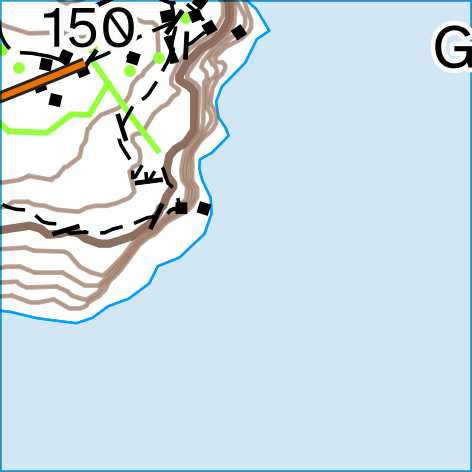
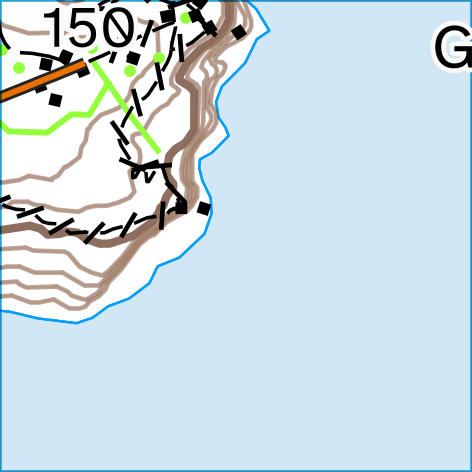
feat: cross out a closed foot track with a slash in each gap
A heavy closed line hid the map under it and read as a railway. The line now matches an open foot track, and a 45° bar sits in every dash gap.

diff --git a/tools/override_topo50_project.py b/tools/override_topo50_project.py
@@ -753,10 +753,24 @@ def _mask_contour_casing(root):
             mask.set("maskedSymbolLayers", current + ";" + token)
 
 
+def _mm(value):
+    text = f"{value:.4f}".rstrip("0").rstrip(".")
+    return text or "0"
+
+
+def closed_bar_placement(track):
+    """Return the interval and the offset that put one bar in each dash gap."""
+    on_text, off_text = track["closed_dash"].split(";")
+    on = float(on_text)
+    off = float(off_text)
+    return _mm(on + off), _mm(on + off / 2)
+
+
 def _closed_crossbar(style=None):
     style = style or STYLE
     track = style["tracks"]["closed_foot"]
     ink = _rgba(track["crossbar_colour"], 255)
+    interval, along = closed_bar_placement(track)
     layer = ET.Element(
         "layer",
         {
@@ -769,10 +783,10 @@ def _closed_crossbar(style=None):
     )
     options = ET.SubElement(layer, "Option", {"type": "Map"})
     for name, value, kind in (
-        ("interval", str(track["crossbar_interval_mm"]), "QString"),
+        ("interval", interval, "QString"),
         ("interval_unit", "MM", "QString"),
         ("offset", "0", "QString"),
-        ("offset_along_line", "0", "QString"),
+        ("offset_along_line", along, "QString"),
         ("offset_along_line_unit", "MM", "QString"),
         ("offset_unit", "MM", "QString"),
         ("place_on_every_part", "true", "bool"),
@@ -858,7 +872,9 @@ def _closed_marker(symbol):
 def _sync_closed_crossbar(marker, style):
     track = style["tracks"]["closed_foot"]
     ink = _rgba(track["crossbar_colour"], 255)
-    _set_option(marker, "interval", str(track["crossbar_interval_mm"]))
+    interval, along = closed_bar_placement(track)
+    _set_option(marker, "interval", interval)
+    _set_option(marker, "offset_along_line", along)
     simple = marker.find("symbol/layer[@class='SimpleMarker']")
     if simple is None:
         raise RuntimeError("closed cross-bar has no marker")

diff --git a/tools/test_tools.py b/tools/test_tools.py
@@ -614,7 +614,7 @@ def test_track_access_channel_is_reserved():
 
 
 def test_closed_tracks_read_the_style_file():
-    # Catches a vector closed-track casing that ignores the JSON, a second apply that leaves the 90° bar, or a raster warm_red left below 3:1 under red light.
+    # Catches a vector closed-track casing that ignores the JSON, a second apply that leaves the 90° bar, a bar left every 4 mm, or a raster warm_red left below 3:1 under red light.
     track = bs.RULES["tracks"]["closed_foot"]
     assert track["casing_colour"] == "#1A1A1A"
     assert track["casing_alpha"] == 0.55
@@ -683,6 +683,10 @@ def test_closed_tracks_read_the_style_file():
     size = track_layer.find(".//layer[@class='SimpleMarker']/Option/Option[@name='size']")
     assert angle.get("value") == str(ov.STYLE["tracks"]["closed_foot"]["crossbar_angle_deg"])
     assert size.get("value") == str(ov.STYLE["tracks"]["closed_foot"]["crossbar_size_mm"])
+    interval = track_layer.find(".//layer[@class='MarkerLine']/Option/Option[@name='interval']")
+    along = track_layer.find(".//layer[@class='MarkerLine']/Option/Option[@name='offset_along_line']")
+    assert interval.get("value") == "1.5"
+    assert along.get("value") == "1.25"
     width = track_layer.find(".//Option[@name='outlineWidth']/Option[@name='expression']").get("value")
     assert "0.15" in width
     assert "0.45" not in width

diff --git a/docs/research-log/0056-angled-closed-track.md b/docs/research-log/0056-angled-closed-track.md
@@ -8,13 +8,13 @@ Can a closed foot track stay as light as an open foot track, and still read as c
 
 ## What we did
 
-Set `tracks.closed_foot.width_mm` to 0.15 and `closed_dash` to `1;0.5`. Those match the open foot track. Set `crossbar_angle_deg` to 60. Set `crossbar_size_mm` to 1, the same length as one dash. A second apply writes that angle and that size onto the marker that is already in the project.
+Set `tracks.closed_foot.width_mm` to 0.15 and `closed_dash` to `1;0.5`. Those match the open foot track. Set `crossbar_angle_deg` to 45. Set `crossbar_size_mm` to 1, the same length as one dash. One bar sits in each gap. The dash is 1 mm and the gap is 0.5 mm, so the bar interval is 1.5 mm and the first bar is 1.25 mm along the line. A second apply writes that angle, that size, and that gap onto the marker that is already in the project.
 
 Drew the closed-track square again at 600 dpi. The other three squares were not drawn.
 
 ## What we found
 
-The closed line is the same weight as the open foot track. The bars sit at 60° to the line. Each bar is 1 mm, the same length as one dash. The brown contours show through the track. The vector sprite is still a perpendicular bar.
+The closed line is the same weight as the open foot track. The bars sit at 45° to the line. That slash crosses out the track. Each bar is 1 mm, the same length as one dash. One bar sits in each gap. The brown contours show through the track. The vector sprite is still a perpendicular bar.
 
 ## What changed
 
@@ -24,4 +24,4 @@ The closed line is the same weight as the open foot track. The bars sit at 60° 
 
 ## Confidence & gaps
 
-The web sprite does not use this angle. If 60° still reads as a sleeper, try another angle in the style file and draw this square again.
+The web sprite does not use this angle. If 45° still reads as a sleeper, try another angle in the style file and draw this square again.

diff --git a/docs/style-topo50.md b/docs/style-topo50.md
@@ -76,7 +76,7 @@ The vector build reads `tracks.closed_foot.casing_colour` and `tracks.closed_foo
 
 `tracks.closed_foot.casing_colour` is `#1A1A1A`. `tracks.closed_foot.casing_alpha` is 0.55.
 
-The QGIS apply step does not paint that casing. A closed foot track uses the same line weight and the same dash as an open foot track. Cross-bars at `tracks.closed_foot.crossbar_angle_deg` mark it closed. That angle is 60. A second apply writes the angle onto the marker that is already in the project.
+The QGIS apply step does not paint that casing. A closed foot track uses the same line weight and the same dash as an open foot track. One cross-bar sits in each gap. The bar angle is `tracks.closed_foot.crossbar_angle_deg`. That angle is 45. A second apply writes the angle and the gap position onto the marker that is already in the project.
 
 `tracks.access.reserved_channel` is `casing_colour`. `tracks.access.painted` is false.
 
